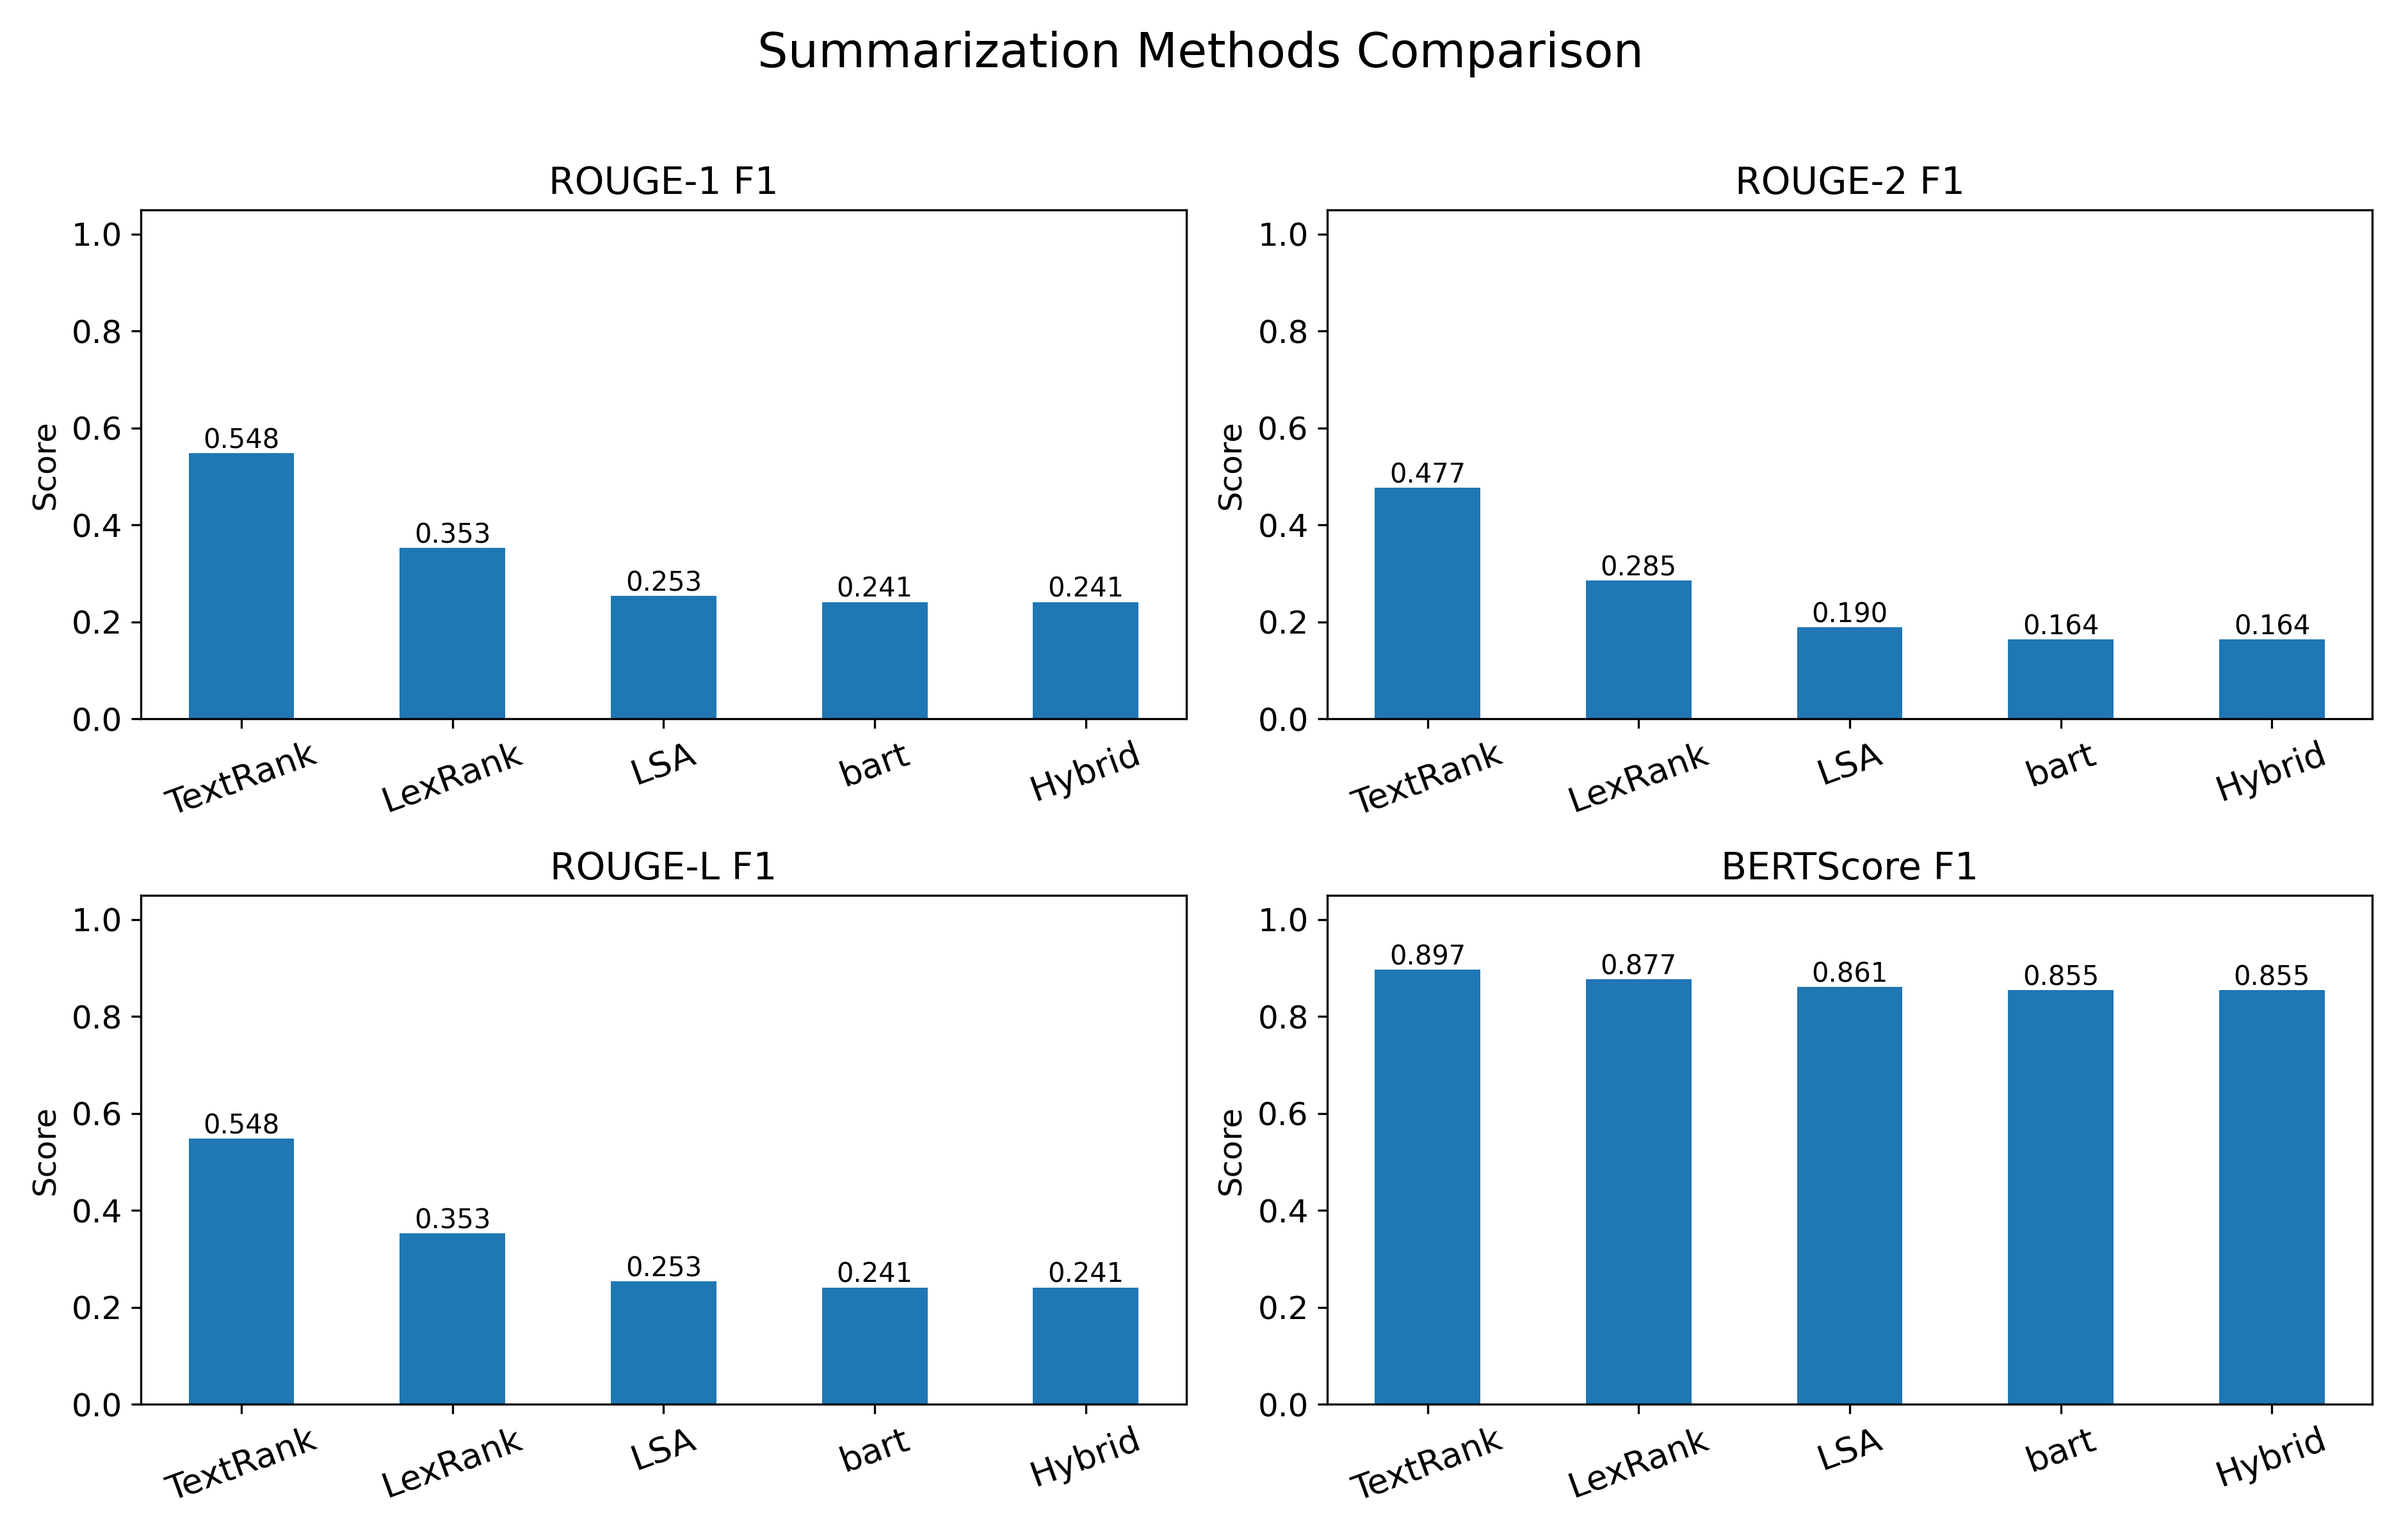
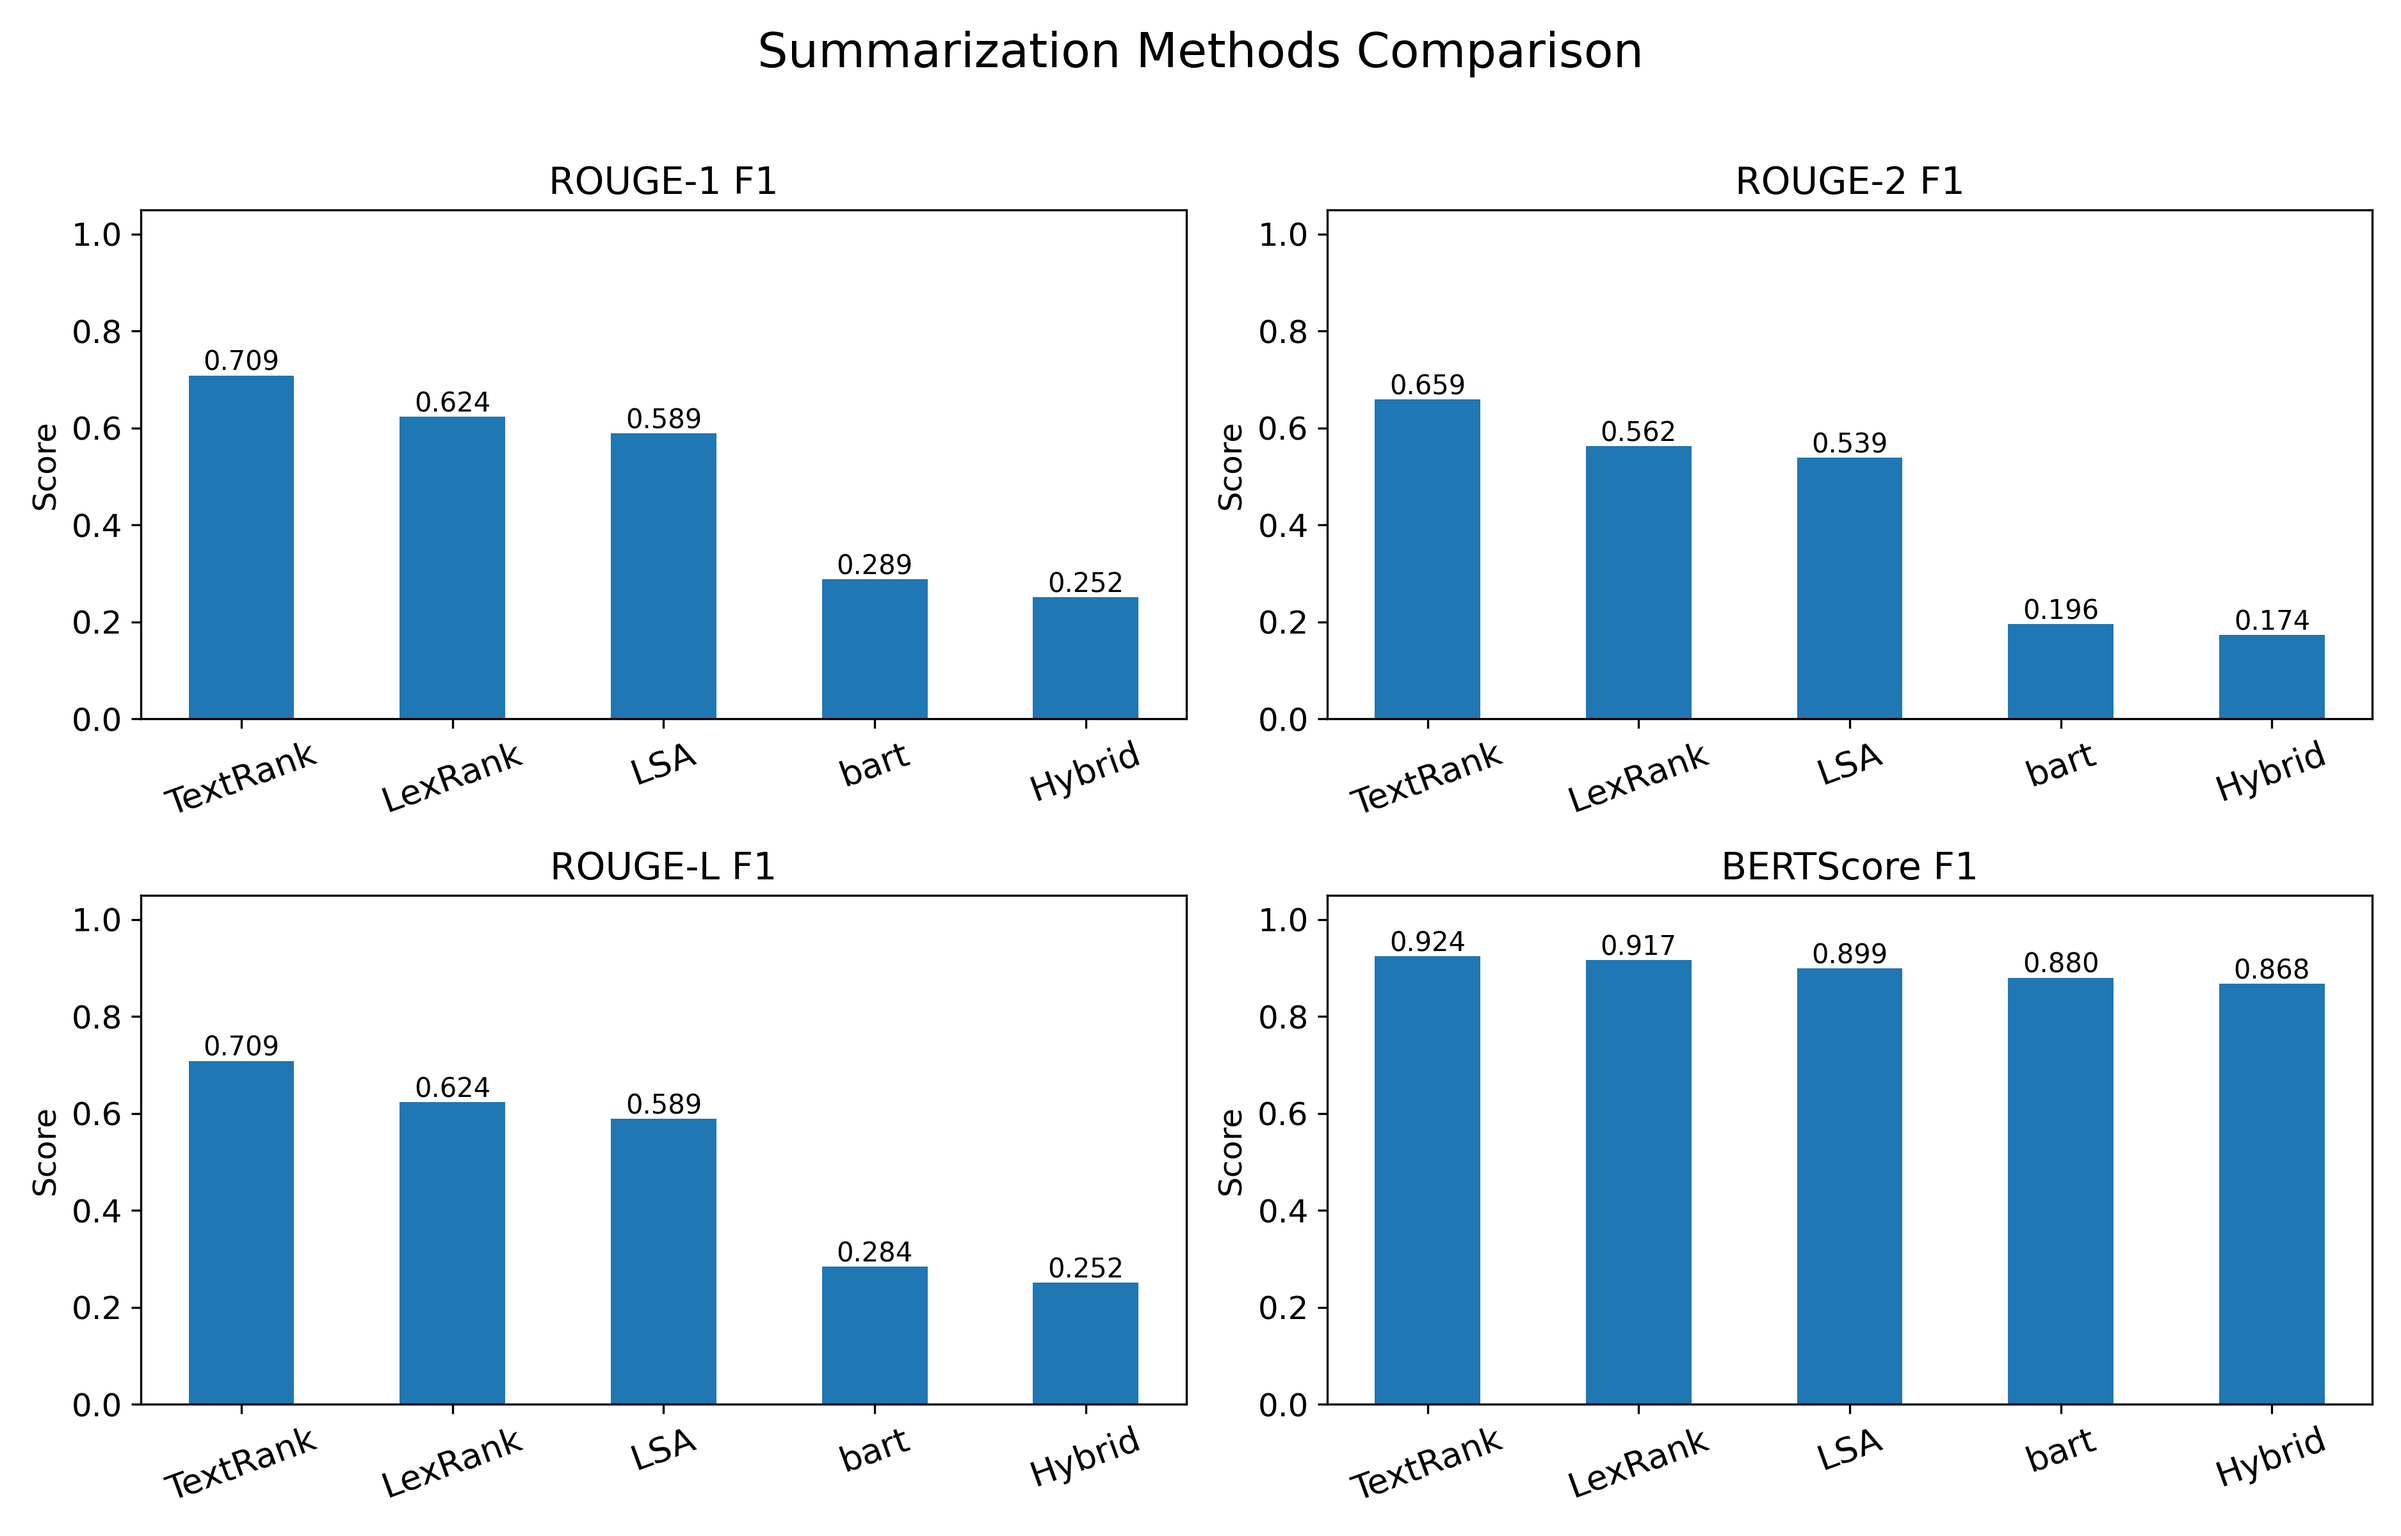
update

diff --git a/pipelines/pipeline_parallel.py b/pipelines/pipeline_parallel.py
@@ -1,7 +1,10 @@
 """
-pipeline_parallel.py (3+1 true hybrid: fusion logic from hybrid_summarization, NOT prompt)
-- Hybrid summary is calculated as weighted fusion of extractive and abstractive, not prompt
-- Structure: textrank, lexrank, lsa, abstractive, hybrid (weighted fusion)
+pipeline_parallel.py (all modes use fusion/hybrid logic, not prompt)
+- All bar groups match your required number and labels
+- 1+1: three bars (extractive, abstractive, hybrid)
+- 3+1: five bars (textrank, lexrank, lsa, abstractive, hybrid)
+- 3+3: three bars (best_extract, best_abstractive, hybrid)
+- Fusion/hybrid always applies weighted content and sentence-level combination, not prompt-based
 """
 
 import os
@@ -28,18 +31,13 @@ class ParallelPipeline:
 
     def _evaluate_rouge(self, summary, reference):
         scores = self.evaluator.score(summary, reference)
-        return {
-            'rouge-1': {'f': scores.get('rouge_rouge-1_f', 0.0)}
-        }
+        return {'rouge-1': {'f': scores.get('rouge_rouge-1_f', 0.0)}}
 
     def _evaluate_bertscore(self, summary, reference):
         scores = self.evaluator.score(summary, reference)
-        return {
-            'f1': scores.get('bertscore_f1', 0.0)
-        }
+        return {'f1': scores.get('bertscore_f1', 0.0)}
 
     def _sentence_similarity(self, sent1, sent2):
-        # You should use your real sentence similarity function
         return float(sent1.strip() == sent2.strip())
 
     def hybrid_summarization(self, original_text, extractive_summary, abstractive_summary):
@@ -95,45 +93,103 @@ class ParallelPipeline:
             return extractive_summary if ext_weight > abs_weight else abstractive_summary
         return hybrid_summary
 
-    def run(self, rss_path_or_url, outdir='data/outputs/', max_articles=5, mode='3+1'):
+    def run(self, rss_path_or_url, outdir='data/outputs/', max_articles=5, mode='1+1'):
         ensure_dir(outdir)
         parser = RSSParser()
         articles = parser.parse(rss_path_or_url, max_articles=max_articles)
         references = [a['content'] for a in articles]
+        # Prepare containers
         textrank_sums, lexrank_sums, lsa_sums = [], [], []
         abstractive_sums, hybrid_sums = [], []
+        best_extract_sums, best_abstractive_sums, best_best_sums = [], [], []
+
         for article in articles:
             content = article['content']
+            # Single-method results
             tr_sum = self.extractive.textrank(content)
             lr_sum = self.extractive.lexrank(content)
             lsa_sum = self.extractive.lsa(content)
+            abs_sum = getattr(self.abstractive,
+                              self.abstractive_methods[0])(content)
             textrank_sums.append(tr_sum)
             lexrank_sums.append(lr_sum)
             lsa_sums.append(lsa_sum)
-            abs_sum = getattr(self.abstractive,
-                              self.abstractive_methods[0])(content)
             abstractive_sums.append(abs_sum)
-            # Combine all three extractive summaries as input for hybrid fusion
-            combined_ext = " ".join([tr_sum, lr_sum, lsa_sum])
-            hybrid = self.hybrid_summarization(content, combined_ext, abs_sum)
-            hybrid_sums.append(hybrid)
+            # 1+1 fusion
+            if mode == '1+1':
+                hybrid_sum = self.hybrid_summarization(
+                    content, tr_sum, abs_sum)
+                hybrid_sums.append(hybrid_sum)
+            # 3+1 fusion (combine all three extractive summaries as one input for hybrid fusion)
+            elif mode == '3+1':
+                combined_ext = ' '.join([tr_sum, lr_sum, lsa_sum])
+                hybrid_sum = self.hybrid_summarization(
+                    content, combined_ext, abs_sum)
+                hybrid_sums.append(hybrid_sum)
+            # 3+3 fusion (best of 3 extractives, best of 3 abstractives, best hybrid)
+            elif mode == '3+3':
+                # Best extractive
+                ex_summaries = [tr_sum, lr_sum, lsa_sum]
+                ex_scores = [self.evaluator.score(
+                    s, content)['rouge_rouge-1_f'] for s in ex_summaries]
+                best_ext_idx = int(np.argmax(ex_scores))
+                best_extract_sums.append(ex_summaries[best_ext_idx])
+                # Best abstractive
+                ab_summaries = [getattr(self.abstractive, m)(
+                    content) for m in self.abstractive_methods]
+                ab_scores = [self.evaluator.score(
+                    s, content)['rouge_rouge-1_f'] for s in ab_summaries]
+                best_abs_idx = int(np.argmax(ab_scores))
+                best_abstractive_sums.append(ab_summaries[best_abs_idx])
+                # Hybrid fusion for all 3x3 pairs
+                all_hybrids = [self.hybrid_summarization(content, e, a)
+                               for e in ex_summaries for a in ab_summaries]
+                hybrid_scores = [self.evaluator.score(
+                    h, content)['rouge_rouge-1_f'] for h in all_hybrids]
+                best_hybrid_idx = int(np.argmax(hybrid_scores))
+                best_best_sums.append(all_hybrids[best_hybrid_idx])
+        # Compute averages
         avg_textrank = self.evaluator.batch_score(textrank_sums, references)[1]
         avg_lexrank = self.evaluator.batch_score(lexrank_sums, references)[1]
         avg_lsa = self.evaluator.batch_score(lsa_sums, references)[1]
         avg_abstractive = self.evaluator.batch_score(
             abstractive_sums, references)[1]
-        avg_hybrid = self.evaluator.batch_score(hybrid_sums, references)[1]
-        output = {
-            'average_scores': {
-                'textrank': avg_textrank,
-                'lexrank': avg_lexrank,
-                'lsa': avg_lsa,
-                'abstractive': avg_abstractive,
-                'best_single': avg_hybrid,
-                'extractive': avg_textrank,  # for plot compatibility
-                'combo': avg_hybrid
+        if mode == '1+1':
+            avg_hybrid = self.evaluator.batch_score(hybrid_sums, references)[1]
+            output = {
+                'average_scores': {
+                    'extractive': avg_textrank,  # default: textrank
+                    'abstractive': avg_abstractive,
+                    'combo': avg_hybrid
+                }
             }
-        }
+        elif mode == '3+1':
+            avg_hybrid = self.evaluator.batch_score(hybrid_sums, references)[1]
+            output = {
+                'average_scores': {
+                    'textrank': avg_textrank,
+                    'lexrank': avg_lexrank,
+                    'lsa': avg_lsa,
+                    'abstractive': avg_abstractive,
+                    'best_single': avg_hybrid
+                }
+            }
+        elif mode == '3+3':
+            avg_best_extract = self.evaluator.batch_score(
+                best_extract_sums, references)[1]
+            avg_best_abstractive = self.evaluator.batch_score(
+                best_abstractive_sums, references)[1]
+            avg_best_best = self.evaluator.batch_score(
+                best_best_sums, references)[1]
+            output = {
+                'average_scores': {
+                    'best_extract': avg_best_extract,
+                    'best_abstractive': avg_best_abstractive,
+                    'best_best': avg_best_best
+                }
+            }
+        else:
+            raise ValueError(f'Unknown mode {mode}')
         json_path = os.path.join(outdir, 'parallel_results.json')
         save_json(output, json_path)
         print(f'JSON result saved to {json_path}')

diff --git a/main.py b/main.py
@@ -1,6 +1,7 @@
 """
-main.py (fix: iterative never prompts for extractive model)
-- Only pipeline and parallel modes allow extractive selection
+main.py (parallel 3+1/3+3 不再提示 extractive, 只有 1+1 才提示)
+- Only prompt for extractive if mode is 1+1 in parallel, otherwise skip
+- All logic for serial/iterative/parallel auto adapts
 """
 
 import os
@@ -52,11 +53,11 @@ def main():
             'Choose parallel mode (1+1, 3+1, 3+3)', default='1+1', cast_type=str)
     else:
         parallel_mode = None
-    # Only prompt for extractive if needed
+    # Prompt for extractive only if needed
     if pipeline_type == 'pipeline' and combine:
         extractive = 'textrank'
         extractive_label = 'ALL'
-    elif pipeline_type in ('pipeline', 'parallel'):
+    elif pipeline_type == 'pipeline' or (pipeline_type == 'parallel' and parallel_mode == '1+1'):
         extractive = ask('Extractive summarization method (textrank/lexrank/lsa)',
                          default='textrank', cast_type=str)
         extractive_label = extractive
